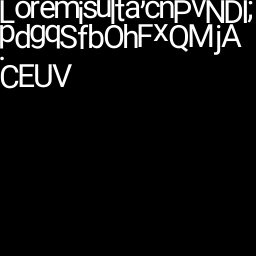
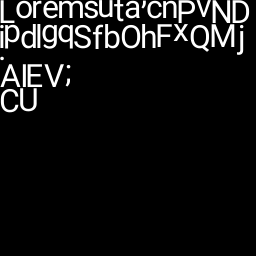
fixed fontdue glyph atlasing

Changed region(s): [[0.0, 0.0, 1.0, 0.2188], [0.0, 0.25, 0.2812, 0.4375]]

diff --git a/crates/fontdue/src/lib.rs b/crates/fontdue/src/lib.rs
@@ -85,7 +85,10 @@ impl<UD: Copy> TextRenderer<UD> {
                             Some((
                                 page,
                                 atlas
-                                    .allocate(size2(metrics.width as _, metrics.height as _))?
+                                    .allocate(size2(
+                                        metrics.width as i32 + 1,
+                                        metrics.height as i32 + 1,
+                                    ))?
                                     .rectangle
                                     .to_rect()
                                     .origin
@@ -98,7 +101,10 @@ impl<UD: Copy> TextRenderer<UD> {
                             let mut atlas = AtlasAllocator::new(size2(w as _, h as _));
                             let page = self.atlases.len();
                             let origin = atlas
-                                .allocate(size2(metrics.width as _, metrics.height as _))?
+                                .allocate(size2(
+                                    metrics.width as i32 + 1,
+                                    metrics.height as i32 + 1,
+                                ))?
                                 .rectangle
                                 .to_rect()
                                 .origin
